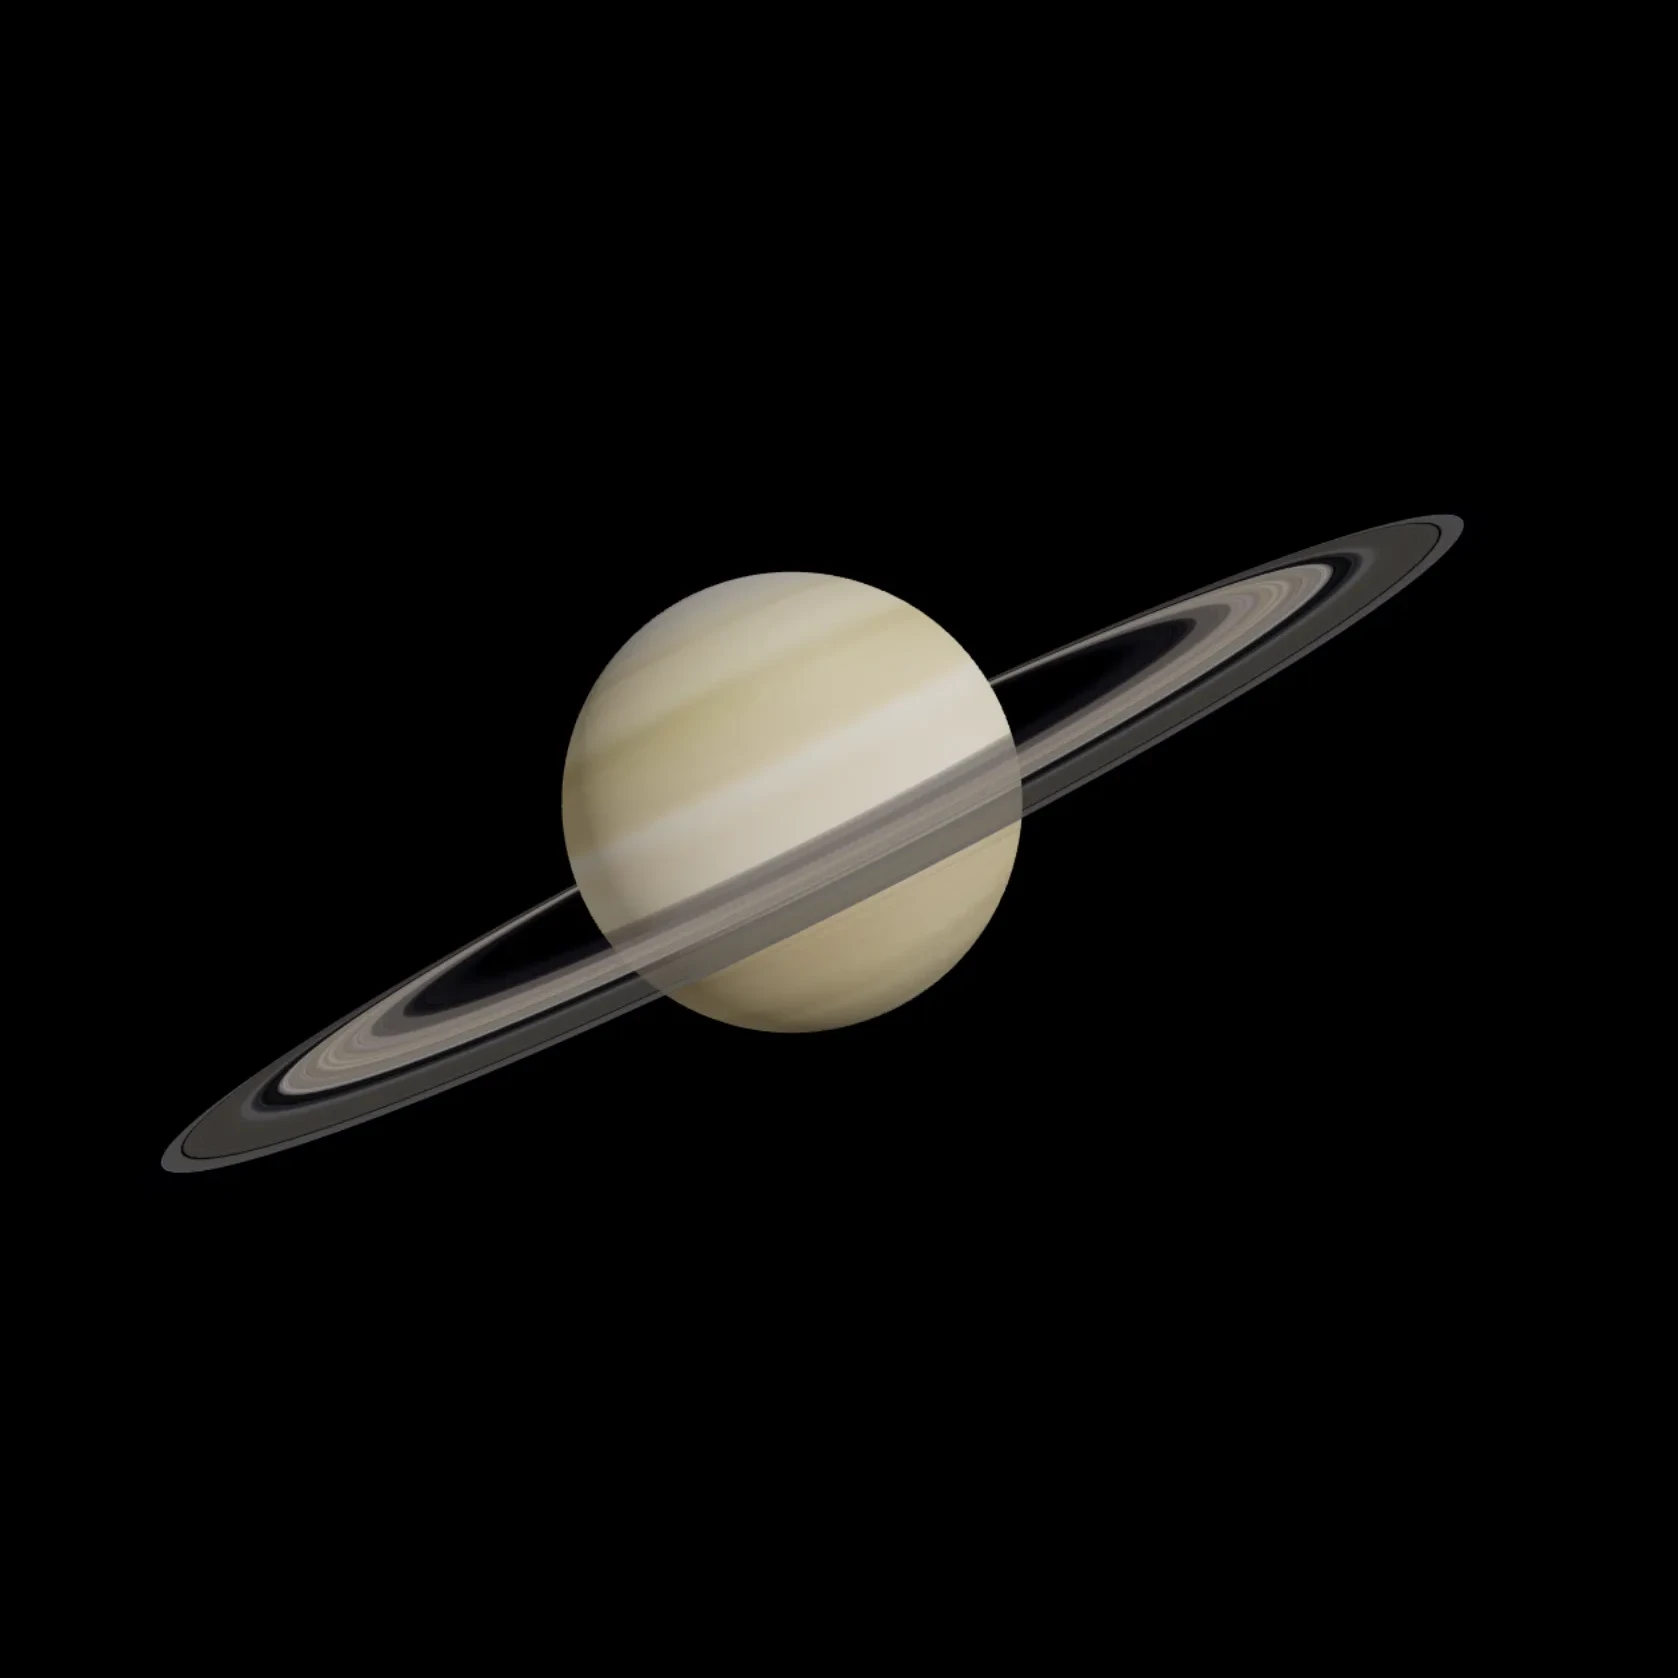
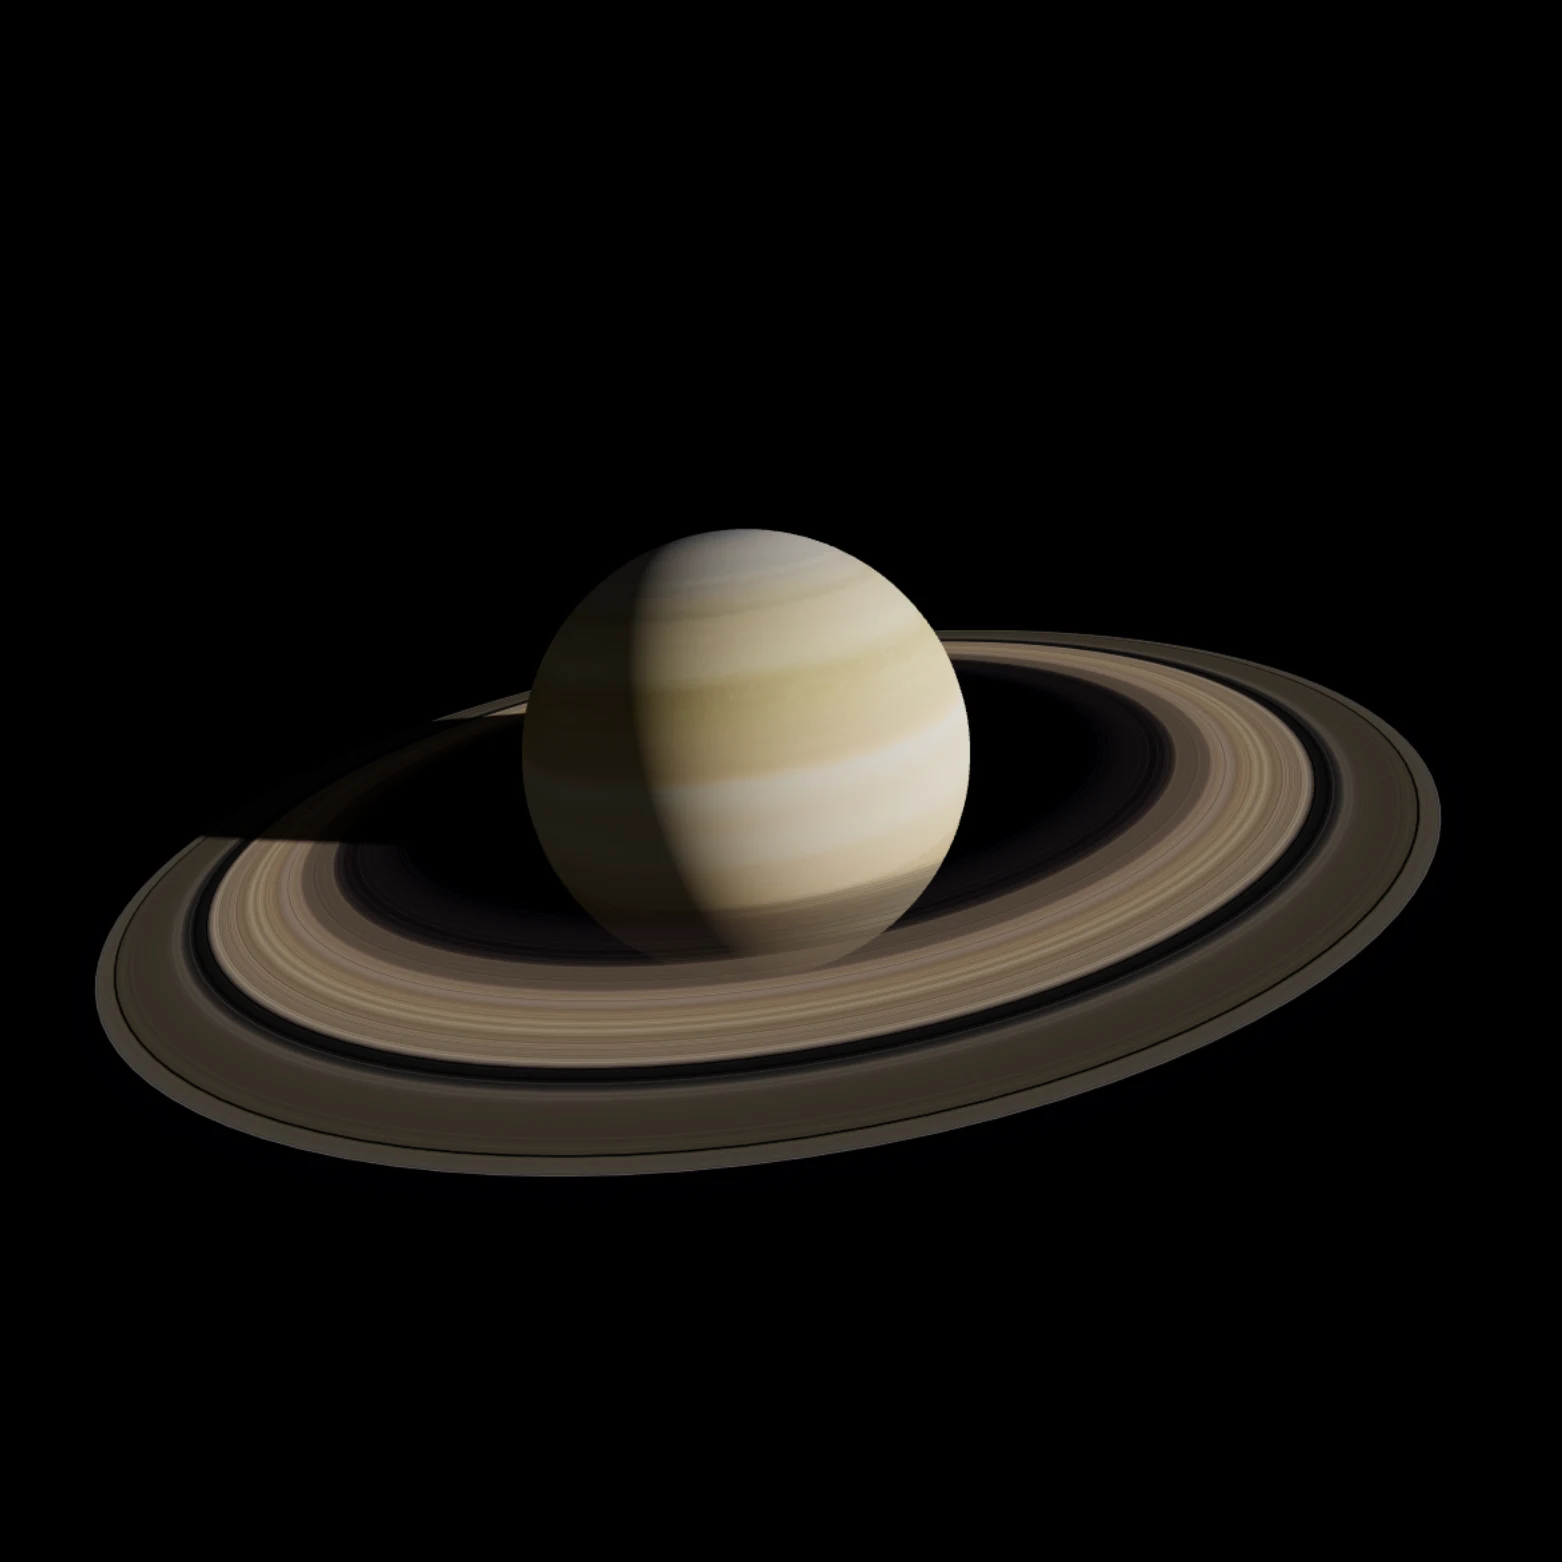
Improve Saturn and Jupiter visualizations
Side lighting, framing and softer colours for the Saturn and Jupiter views,
the planet's shadow on Saturn's rings, an orthographic Galilean moons view
with HTML labels, and a cleaner Jupiter vs Earth comparison. Adds optional
lightPosition, ringColor, ringShadow and cameraUp settings (defaults keep
other posts unchanged), a Saturn subtitle, and new Saturn/Jupiter thumbnails.

Changed region(s): [[0.0615, 0.3073, 0.9219, 0.7682]]

diff --git a/src/components/simulations/single-planet/extensions/jupiterMoonsAtScale.js b/src/components/simulations/single-planet/extensions/jupiterMoonsAtScale.js
@@ -8,8 +8,10 @@ export function jupiterMoonsAtScaleExtension({
   // Number of moons to show (default: the 4 Galilean moons).
   moons = ['io', 'europa', 'ganymede', 'callisto'],
   opacity = 1,
+  // Show a small name (and distance) label under Jupiter and each moon.
+  labels = false,
 } = {}) {
-  return ({ THREE, scene, planetKey, radius: planetRadiusScene }) => {
+  return ({ THREE, scene, camera, renderer, planetKey, radius: planetRadiusScene }) => {
     if (planetKey !== 'jupiter') return null;
 
     // Mean radii (km) and semi-major axes (km) from Jupiter center.
@@ -28,6 +30,81 @@ export function jupiterMoonsAtScaleExtension({
     const geometries = [];
     const materials = [];
     const meshes = [];
+
+    // Labels are real HTML text laid over the canvas (sharp at any pixel ratio),
+    // positioned by projecting each body's position through the camera.
+    const anchors = []; // { el, world: Vector3 }
+    let overlay = null;
+    const container = renderer?.domElement?.parentElement ?? null;
+    if (labels && container) {
+      overlay = document.createElement('div');
+      overlay.className = 'sim-overlay';
+      overlay.setAttribute('aria-hidden', 'true');
+      Object.assign(overlay.style, { position: 'absolute', inset: '0', pointerEvents: 'none', zIndex: '1' });
+      container.appendChild(overlay);
+    }
+
+    const addLabel = (title, detail, world) => {
+      if (!overlay) return;
+      const el = document.createElement('div');
+      Object.assign(el.style, {
+        position: 'absolute',
+        top: '0',
+        left: '0',
+        textAlign: 'center',
+        whiteSpace: 'nowrap',
+        willChange: 'transform',
+      });
+      const name = document.createElement('div');
+      name.textContent = title;
+      Object.assign(name.style, {
+        fontSize: 'clamp(0.55rem, 1.2vw, 0.75rem)',
+        letterSpacing: '0.06em',
+        textTransform: 'uppercase',
+        color: 'rgba(255, 255, 255, 0.75)',
+      });
+      el.appendChild(name);
+      if (detail) {
+        const sub = document.createElement('div');
+        sub.className = 'moon-label-detail';
+        sub.textContent = detail;
+        Object.assign(sub.style, {
+          marginTop: '0.15em',
+          fontSize: 'clamp(0.5rem, 1vw, 0.65rem)',
+          color: 'rgba(255, 255, 255, 0.45)',
+          fontVariantNumeric: 'tabular-nums',
+        });
+        el.appendChild(sub);
+      }
+      overlay.appendChild(el);
+      anchors.push({ el, world });
+    };
+
+    const projected = new THREE.Vector3();
+    const placeLabels = () => {
+      if (!overlay || !camera) return;
+      camera.updateMatrixWorld();
+      const width = container.clientWidth;
+      const height = container.clientHeight;
+      // On narrow stages the distance lines would overlap, so show names only.
+      const compact = width < 560;
+      for (const { el, world } of anchors) {
+        const detailEl = el.querySelector('.moon-label-detail');
+        if (detailEl) detailEl.style.display = compact ? 'none' : '';
+        projected.copy(world).project(camera);
+        const half = el.offsetWidth / 2;
+        // Keep labels inside the stage (Callisto sits close to the right edge).
+        const left = Math.min(Math.max(((projected.x + 1) / 2) * width, half + 4), width - half - 4);
+        const top = ((1 - projected.y) / 2) * height;
+        // Anchor the label's top-centre just below the body.
+        el.style.transform = `translate(${left.toFixed(1)}px, ${top.toFixed(1)}px) translate(-50%, 0)`;
+      }
+    };
+
+    const formatKm = (km) => `${Math.round(km / 1000).toLocaleString('en-US')},000 km`;
+    const labelGap = planetRadiusScene * 0.35;
+
+    if (labels) addLabel('Jupiter', null, new THREE.Vector3(0, -planetRadiusScene - labelGap, 0));
 
     const ids = Array.isArray(moons) ? moons : [];
     for (let i = 0; i < ids.length; i += 1) {
@@ -64,12 +141,35 @@ export function jupiterMoonsAtScaleExtension({
 
       meshes.push(mesh);
       group.add(mesh);
+
+      if (labels) {
+        const below = mesh.position.clone();
+        below.y -= Math.max(moonRadiusScene, planetRadiusScene * 0.25) + labelGap;
+        addLabel(data.name, formatKm(data.aKm), below);
+      }
     }
 
     scene.add(group);
 
+    // The camera's size changes with the stage, so re-place labels on every resize
+    // (one frame later, after the renderer has updated the camera).
+    let resizeObserver = null;
+    let raf = 0;
+    if (overlay) {
+      const schedule = () => {
+        cancelAnimationFrame(raf);
+        raf = requestAnimationFrame(placeLabels);
+      };
+      resizeObserver = new ResizeObserver(schedule);
+      resizeObserver.observe(container);
+      schedule();
+    }
+
     return {
       dispose() {
+        resizeObserver?.disconnect();
+        cancelAnimationFrame(raf);
+        overlay?.remove();
         scene.remove(group);
         for (const m of meshes) group.remove(m);
         for (const g of geometries) g.dispose();

diff --git a/src/components/simulations/single-planet/SinglePlanetSim.jsx b/src/components/simulations/single-planet/SinglePlanetSim.jsx
@@ -53,6 +53,45 @@ const PLANET_CONFIG = {
   },
 };
 
+const DEFAULT_LIGHT_POSITION = [3, 2, 4];
+
+// Darken the parts of Saturn's rings that sit in the planet's shadow. The light is
+// directional, so a ring point is shadowed when the ray from it toward the light
+// passes through the planet's sphere.
+function applyRingShadow(material, { center, radius, lightDir }) {
+  material.onBeforeCompile = (shader) => {
+    shader.uniforms.uPlanetCenter = { value: center };
+    shader.uniforms.uPlanetRadius = { value: radius };
+    shader.uniforms.uLightDir = { value: lightDir };
+    shader.vertexShader = shader.vertexShader
+      .replace('#include <common>', '#include <common>\nvarying vec3 vRingWorldPos;')
+      .replace(
+        '#include <begin_vertex>',
+        '#include <begin_vertex>\nvRingWorldPos = (modelMatrix * vec4(transformed, 1.0)).xyz;',
+      );
+    shader.fragmentShader = shader.fragmentShader
+      .replace(
+        '#include <common>',
+        `#include <common>
+        varying vec3 vRingWorldPos;
+        uniform vec3 uPlanetCenter;
+        uniform float uPlanetRadius;
+        uniform vec3 uLightDir;`,
+      )
+      .replace(
+        '#include <map_fragment>',
+        `#include <map_fragment>
+        vec3 toPoint = vRingWorldPos - uPlanetCenter;
+        float along = dot(toPoint, uLightDir);
+        // Only points on the far side of the planet from the light can be shadowed.
+        float missBy = length(toPoint - along * uLightDir);
+        float inShadow = (1.0 - smoothstep(uPlanetRadius * 0.97, uPlanetRadius * 1.03, missBy)) * step(along, 0.0);
+        diffuseColor.rgb *= mix(1.0, 0.08, inShadow);`,
+      );
+  };
+  material.needsUpdate = true;
+}
+
 function applyContrastMaterial(material, contrast) {
   if (!material || typeof contrast !== 'number') return;
   material.userData.uContrast = { value: contrast };
@@ -96,11 +135,15 @@ export default function SinglePlanetSim({
   textureContrast,
   tiltDeg,
   lightIntensity = 1.7,
+  lightPosition = DEFAULT_LIGHT_POSITION, // [x, y, z]; the default lights the planet mostly from the front
+  ringColor, // optional tint multiplied into Saturn's ring texture
+  ringShadow = false, // cast the planet's shadow onto Saturn's rings
   ambientIntensity = 0.6,
   scrollZoom = false,
   scrollZoomOptions = {},
   orthographic = false,
   orthographicExtent = 2,
+  cameraUp, // optional {x, y, z} up vector for the orthographic camera (its default looks straight down)
   showStarBackground = false,
 }) {
   const containerRef = useRef(null);
@@ -111,6 +154,7 @@ export default function SinglePlanetSim({
   const madeVisibleRef = useRef(false);
 
   const planetKey = planet.toLowerCase();
+  const lightPositionKey = lightPosition.join(',');
   const config = useMemo(() => PLANET_CONFIG[planetKey], [planetKey]);
 
   useEffect(() => {
@@ -127,6 +171,7 @@ export default function SinglePlanetSim({
           height: cameraPos.y ?? 0,
           position: cameraPos,
           lookAt: cameraLookAt ? (Array.isArray(cameraLookAt) ? cameraLookAt : [cameraLookAt.x, cameraLookAt.y, cameraLookAt.z]) : [0, 0, 0],
+          ...(cameraUp ? { up: [cameraUp.x ?? 0, cameraUp.y ?? 1, cameraUp.z ?? 0] } : {}),
         })
       : undefined;
 
@@ -146,7 +191,7 @@ export default function SinglePlanetSim({
 
     const ambient = new THREE.AmbientLight(0xffffff, ambientIntensity);
     const keyLight = new THREE.DirectionalLight(0xffffff, lightIntensity);
-    keyLight.position.set(3, 2, 4);
+    keyLight.position.set(lightPosition[0] ?? 3, lightPosition[1] ?? 2, lightPosition[2] ?? 4);
     scene.add(ambient, keyLight);
 
     let stars = null;
@@ -183,6 +228,7 @@ export default function SinglePlanetSim({
           ringAngle,
           ringInnerScale: config.ringInnerScale,
           ringOuterScale: config.ringOuterScale,
+          ringMaterialOptions: ringColor !== undefined ? { color: new THREE.Color(ringColor) } : {},
           tiltDeg:
             tiltDeg ??
             (Array.isArray(config.tiltDeg) ? config.tiltDeg : [0, 0.0, 26.7]),
@@ -197,6 +243,14 @@ export default function SinglePlanetSim({
           textureLoader,
           tiltDeg: tiltDeg ?? config.tiltDeg ?? 0,
         });
+
+    if (planetKey === 'saturn' && ringShadow && simHandle.ringMesh) {
+      applyRingShadow(simHandle.ringMesh.material, {
+        center: new THREE.Vector3(0, 0, 0),
+        radius,
+        lightDir: keyLight.position.clone().normalize(),
+      });
+    }
 
     if (typeof textureContrast === 'number') {
       const material =
@@ -275,9 +329,13 @@ export default function SinglePlanetSim({
     textureContrast,
     tiltDeg,
     lightIntensity,
+    lightPositionKey,
+    ringColor,
+    ringShadow,
     ambientIntensity,
     orthographic,
     orthographicExtent,
+    cameraUp,
     showStarBackground,
   ]);
 

diff --git a/src/components/simulations/planet-size-comparison/PlanetSizeComparison.jsx b/src/components/simulations/planet-size-comparison/PlanetSizeComparison.jsx
@@ -3,6 +3,8 @@ import * as THREE from 'three';
 import SimStage from '../lib/simStage.jsx';
 import { prepareScene, createTopDownOrthoCamera } from '../lib/threeCore.js';
 
+const DEFAULT_LIGHT_POSITION = [5, 2, 3];
+
 export default function PlanetSizeComparison({
   id = 'planet-size-comparison',
   aspect = '16 / 9',
@@ -19,10 +21,12 @@ export default function PlanetSizeComparison({
   options = {},
   directionalLightIntensity = 2.2,
   ambientLightIntensity = 0.32,
+  lightPosition = DEFAULT_LIGHT_POSITION, // [x, y, z] direction the light comes from
 }) {
   const containerRef = useRef(null);
   const canvasRef = useRef(null);
   const simControlsRef = useRef(null);
+  const lightKey = lightPosition.join(',');
 
   // Memoize options so re-renders (e.g. play/pause) don't recreate the scene unless a field actually changed.
   const memoOptions = useMemo(() => options ?? {}, [
@@ -247,7 +251,7 @@ export default function PlanetSizeComparison({
     scene.add(stars);
 
     const sun = new THREE.DirectionalLight(0xffffff, directionalLightIntensity);
-    sun.position.set(5, 2, 3).normalize();
+    sun.position.set(lightPosition[0] ?? 5, lightPosition[1] ?? 2, lightPosition[2] ?? 3).normalize();
     scene.add(sun);
     scene.add(new THREE.AmbientLight(0xffffff, ambientLightIntensity));
 
@@ -310,6 +314,7 @@ export default function PlanetSizeComparison({
     orthoExtent,
     directionalLightIntensity,
     ambientLightIntensity,
+    lightKey,
   ]);
 
   const onToggle = () => {
